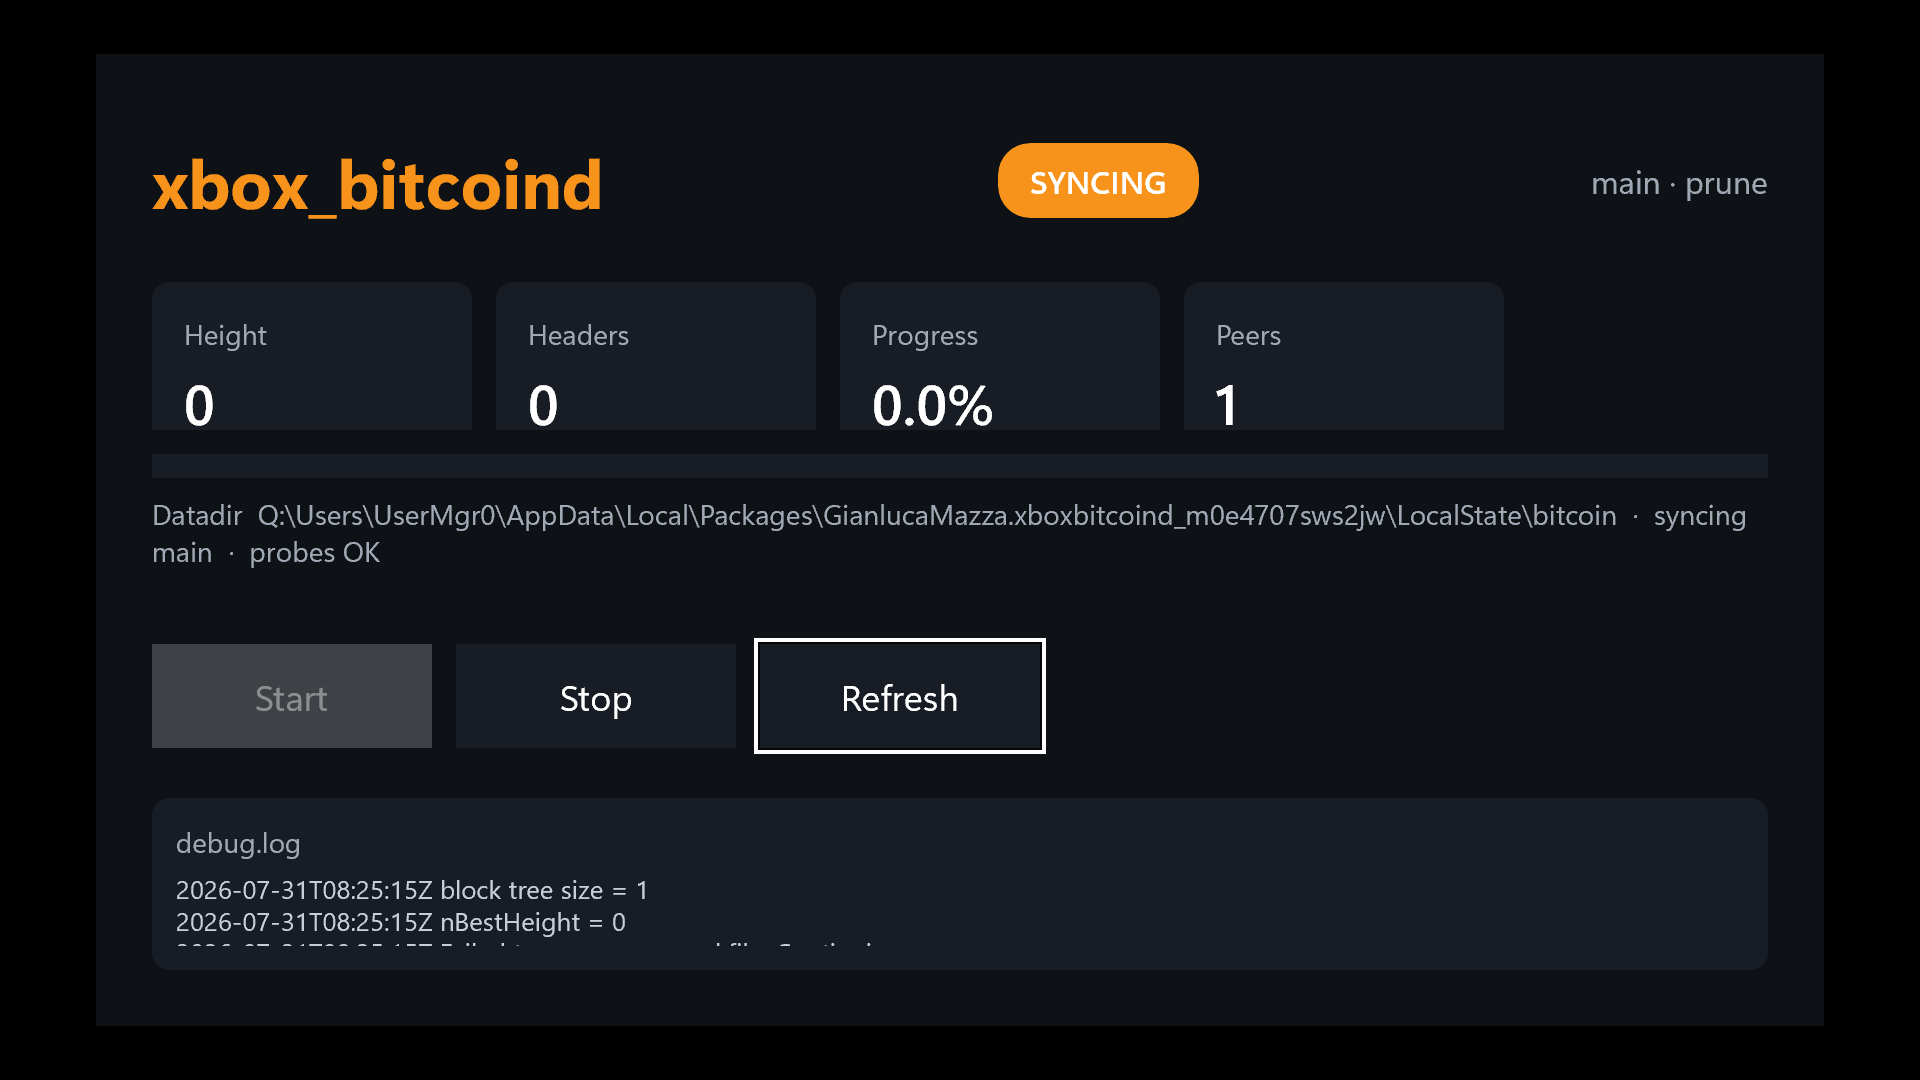
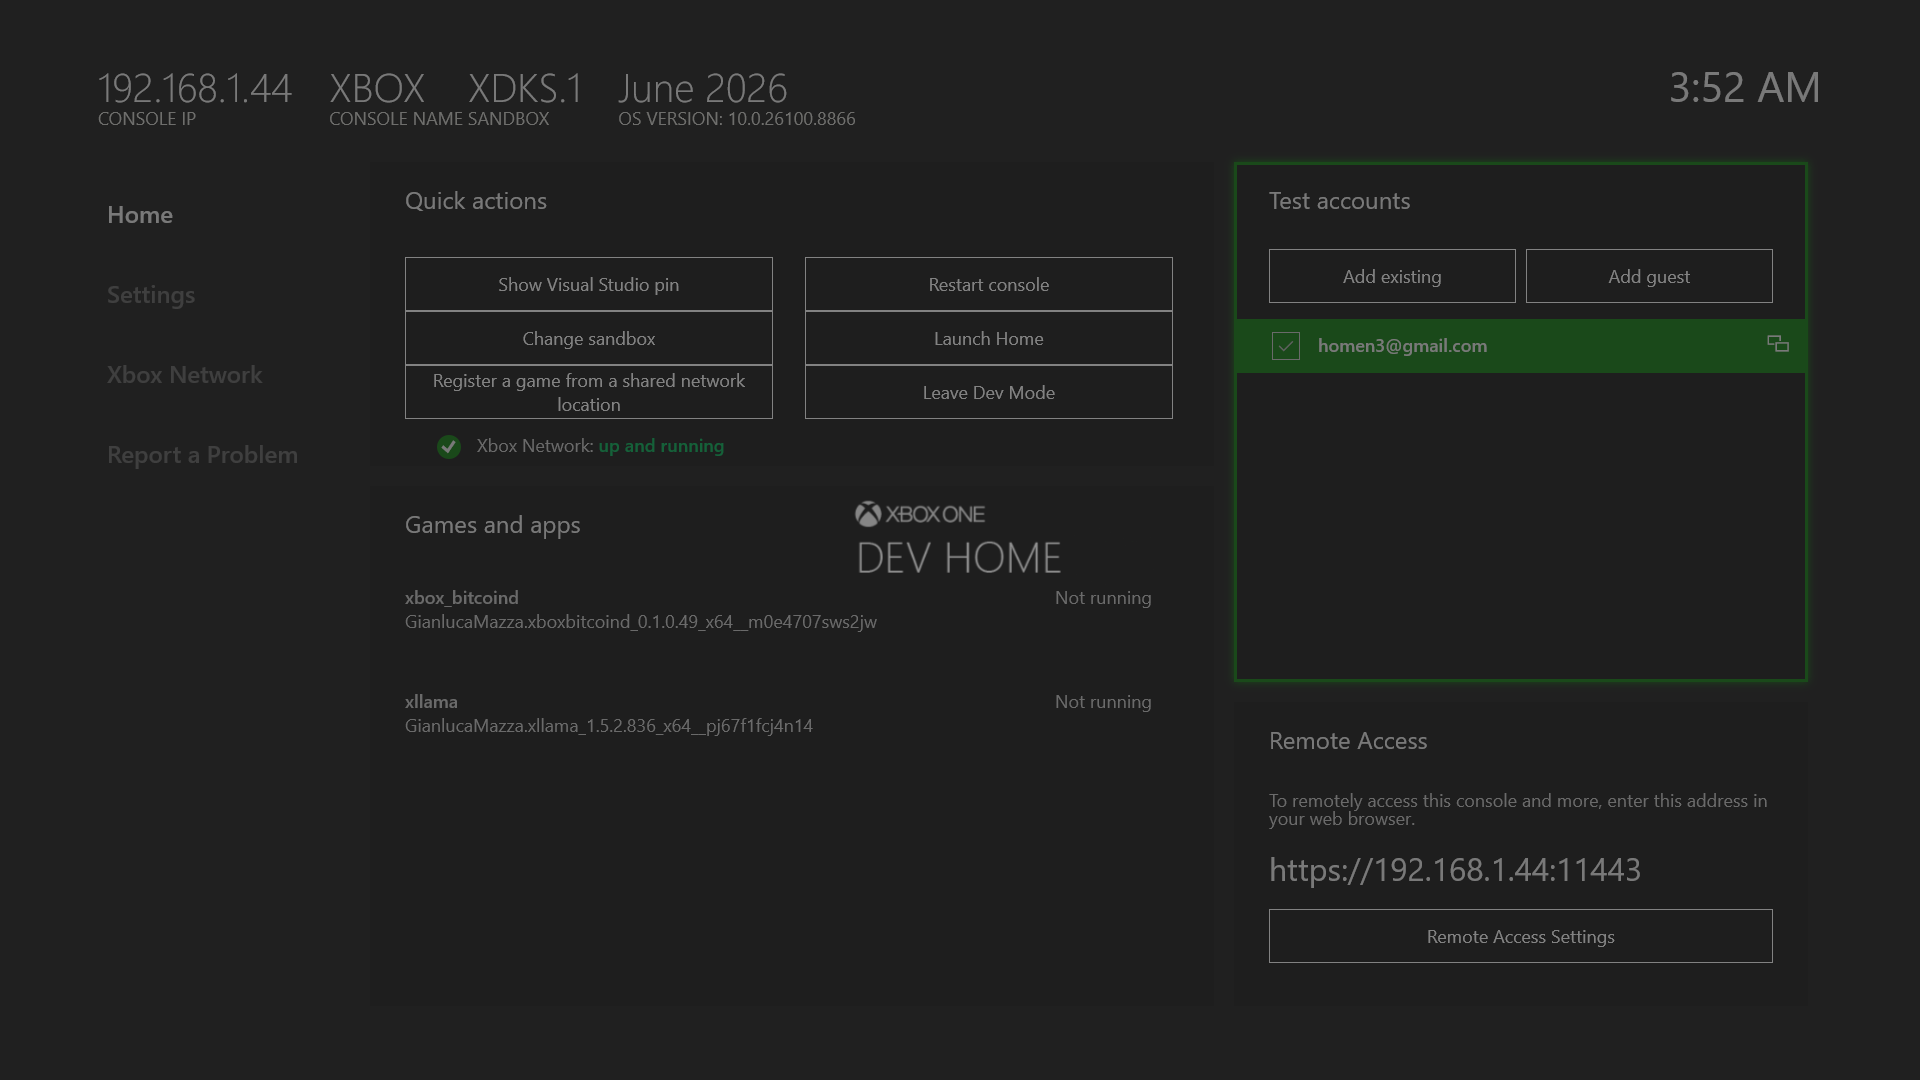
docs: console on 0.1.0.49 with refreshed dashboard screenshot
Record live deploy of CI package 0.1.0.49 (richer UI), chain preserved
across soft-stop upgrade (~height 369k), and update README hero frame.

diff --git a/docs/console.md b/docs/console.md
@@ -13,9 +13,9 @@ Same **Xbox Series S** as [`xllama`](../../xllama/) (Dev Mode + Device Portal).
 | Device Portal | `https://192.168.1.44:11443` (DHCP — update if IP changes) |
 | Credentials | `~/.config/xllama/xbox-env` (see `scripts/env.sh`) |
 | Sibling | `GianlucaMazza.xllama_1.5.2.836_x64__pj67f1fcj4n14` |
-| This package | `GianlucaMazza.xboxbitcoind_0.1.0.42_x64__m0e4707sws2jw` |
+| This package | `GianlucaMazza.xboxbitcoind_0.1.0.49_x64__m0e4707sws2jw` |
 
-**Last full ops check:**  mid-IBD soft-stop PASS; tip ~**327k**; WS ~**1 GiB**.
+**Last full ops check:** 2026-07-31 deploy **0.1.0.49** (UI dashboard refresh); tip ~**369k** after soft-stop upgrade; chain load OK (`nBestHeight=368811`).
 Day-to-day: [ops.md](ops.md).
 
 ```bash

diff --git a/README.md b/README.md
@@ -128,7 +128,7 @@ Research archive (phase 0): [docs/research/](docs/research/00-feasibility.md).
 | Area | State |
 |------|--------|
 | **v1 engineering** | **Complete** ([docs/roadmap.md](docs/roadmap.md)) |
-| WithCore on Series S | Working (e.g. package `0.1.0.42`) |
+| WithCore on Series S | Working (package **0.1.0.49**) |
 | Soft-stop persistence | Verified (early + mid IBD) |
 | Mainnet IBD → tip + 24h stable | **Ops pending** (timer running; `./scripts/v1-close-check.sh`) |
 | Wallet / Store / inbound listen | Out of scope for v1 |

diff --git a/docs/README.md b/docs/README.md
@@ -11,7 +11,7 @@ Snapshot (see also [ops.md](ops.md)):
 | | |
 |--|--|
 | Pin | Bitcoin Core **v31.1** |
-| Package | `GianlucaMazza.xboxbitcoind` (WithCore, **Game**) |
+| Package | `GianlucaMazza.xboxbitcoind` **0.1.0.49** (WithCore, **Game**) |
 | Datadir | `LocalState\bitcoin` |
 
 ---
